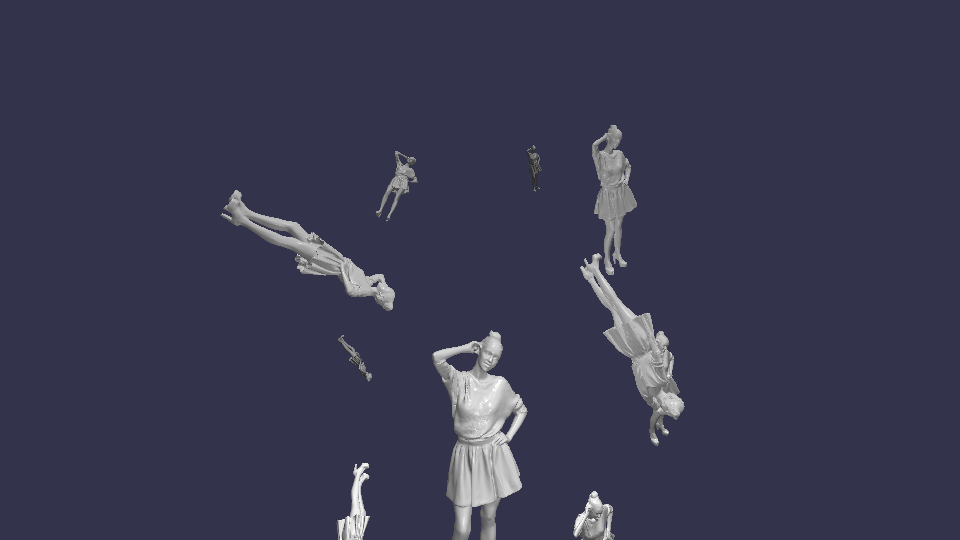
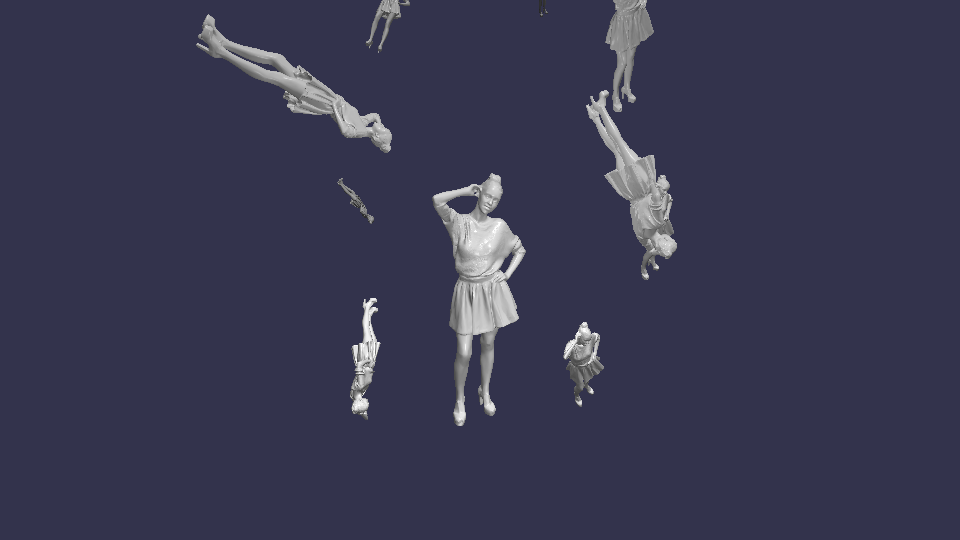
add target mode for camera

diff --git a/Photographer/Camera.cpp b/Photographer/Camera.cpp
@@ -5,6 +5,8 @@ unsigned int Camera::avalible_camera_id = 1000;
 Camera::Camera(int screen_width, int screen_height, float field_of_view)
     :screen_width_(screen_width), screen_height_(screen_height), field_of_view_(field_of_view)
 {
+    mode_ = FREE_MODE;
+
     ID_ = Camera::avalible_camera_id;
     Camera::avalible_camera_id++;
 
@@ -12,7 +14,7 @@ Camera::Camera(int screen_width, int screen_height, float field_of_view)
     yaw_ = -90.0f;
     pitch_ = 0.0f;
 
-    updateCameraRotation_();
+    updateVectorsByRotation_();
 }
 
 Camera::~Camera()
@@ -32,13 +34,33 @@ glm::mat4 Camera::getGlProjectionMatrix()
 void Camera::setPosition(glm::vec3 pos)
 {
     position_ = pos;
+
+    if (mode_ == TARGET_MODE)
+    {
+        updateFrontByTarget_();
+    }
 }
 
 void Camera::setRotation(float pitch, float yaw)
 {
+    if (mode_ == TARGET_MODE)
+    {
+        std::cout << "INFO:: CAMERA " << ID_ << " SWITCHED FROM TARGET MODE TO FREE ROTATION" << std::endl;
+        mode_ = FREE_MODE;
+    }
+
     pitch_ = pitch;
     yaw_ = yaw;
-    updateCameraRotation_();
+    updateVectorsByRotation_();
+}
+
+void Camera::setTarget(glm::vec3 target)
+{
+    std::cout << "INFO:: CAMERA " << ID_ << " SWITCHED FROM FREE ROTATION TO TARGET MODE" << std::endl;
+
+    mode_ = TARGET_MODE;
+    target_ = target;
+    updateFrontByTarget_();
 }
 
 void Camera::movePosition(Directions direction, float step_size_multiplier)
@@ -60,10 +82,21 @@ void Camera::movePosition(Directions direction, float step_size_multiplier)
             position_ -= right_ * velocity;
             break;
     }
+
+    if (mode_ == TARGET_MODE)
+    {
+        updateFrontByTarget_();
+    }
 }
 
 void Camera::updateRotation(float delta_pitch, float delta_yaw, bool constrain_pitch)
 {
+    if (mode_ == TARGET_MODE)
+    {
+        std::cout << "INFO:: CAMERA " << ID_ << " SWITCHED FROM TARGET MODE TO FREE ROTATION" << std::endl;
+        mode_ = FREE_MODE;
+    }
+
     delta_pitch *= rotation_sensitivity_;
     delta_yaw *= rotation_sensitivity_;
 
@@ -76,7 +109,7 @@ void Camera::updateRotation(float delta_pitch, float delta_yaw, bool constrain_p
         if (pitch_ < -89.0f) pitch_ = -89.0f;
     }
 
-    updateCameraRotation_();
+    updateVectorsByRotation_();
 }
 
 void Camera::zoom(float delta)
@@ -89,7 +122,7 @@ void Camera::zoom(float delta)
     if (field_of_view_ >= default_fov_)      field_of_view_ = default_fov_;
 }
 
-void Camera::updateCameraRotation_()
+void Camera::updateVectorsByRotation_()
 {
     // New Front vector
     glm::vec3 front;
@@ -100,5 +133,14 @@ void Camera::updateCameraRotation_()
 
     // re-calculate the Right and Up vector
     right_ = glm::normalize(glm::cross(front_, world_up_)); 
+    up_ = glm::normalize(glm::cross(right_, front_));
+}
+
+void Camera::updateFrontByTarget_()
+{
+    front_ = target_ - position_;
+
+    // re-calculate the Right and Up vector
+    right_ = glm::normalize(glm::cross(front_, world_up_));
     up_ = glm::normalize(glm::cross(right_, front_));
 }

diff --git a/Photographer/Camera.h b/Photographer/Camera.h
@@ -19,6 +19,12 @@ public:
         LEFT,
         RIGHT
     };
+    enum Mode
+    {
+        TARGET_MODE, 
+        FREE_MODE
+    };
+
 
     Camera(int screen_width, int screen_height, float field_of_view = default_fov_);
     ~Camera();
@@ -29,7 +35,7 @@ public:
 
     void setPosition(glm::vec3 pos);
     void setRotation(float pitch, float yaw);
-    //void SetTarget(glm::vec3 target);
+    void setTarget(glm::vec3 target);
     //void SetFrontVector(glm::vec3 front);
 
     // TUTORIAL
@@ -50,11 +56,17 @@ private:
     static constexpr float zoom_sensitivity_ = 0.01f;
     static constexpr float movement_speed_ = 2.5f;
 
-    // Calculates the front vector from the Camera's (updated) Euler Angles
-    void updateCameraRotation_();
+    // Calculates the front vector 
+    // from the Camera's (updated) Euler Angles
+    void updateVectorsByRotation_();
+    // based on the target
+    void updateFrontByTarget_();
 
     // ID
     unsigned int ID_;
+
+    // mode
+    Mode mode_;
 
     // extrinsic
     glm::vec3 position_;
@@ -64,6 +76,7 @@ private:
     const glm::vec3 world_up_ = glm::vec3(0.0f, 1.0f, 0.0f);
     // extra -- rotation parameters
     float yaw_, pitch_;
+    glm::vec3 target_;
 
     // intrinsic 
     float field_of_view_;

diff --git a/Photographer/Photographer.cpp b/Photographer/Photographer.cpp
@@ -105,7 +105,9 @@ void Photographer::addCameraToPosition(float x, float y, float z)
 {
     Camera camera(win_width_, win_height_);
     camera.setPosition(glm::vec3(x, y, z));
-    // set target mode
+
+    // since we use normalized coordinates
+    camera.setTarget(glm::vec3(0.0f));
 
     image_cameras_.push_back(camera);
 }
